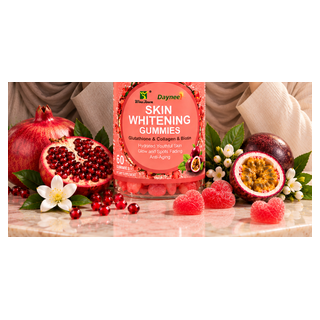
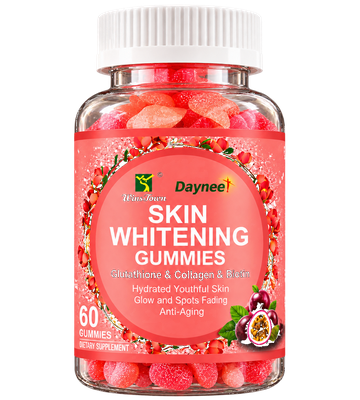
feat(skin): upsell cards use new packshot from ChatGPT 02_38_52 PM
- Process user asset into pdp/upsell/skin.png (white bg)
- Re-enable upsell thumbnails; skin upsellSrc cache bump

diff --git a/src/components/product/ProductPurchasePanel.tsx b/src/components/product/ProductPurchasePanel.tsx
@@ -63,37 +63,40 @@ function getOfferUi(form: ProductForm, qty: BundleQuantity): OfferUi {
 }
 
 function OfferProductStack({
-  src: _upsellImageSrc,
-  alt: _upsellImageAlt,
+  src,
+  alt,
   count,
 }: {
-  /** Wire URL here when upsell assets are ready */
   src: string;
   alt: string;
   count: number;
 }) {
-  void _upsellImageSrc;
-  void _upsellImageAlt;
-
   const width = count === 1 ? "3.5rem" : count === 2 ? "4.75rem" : "5.75rem";
 
   return (
     <div
       className="relative h-[4.25rem] shrink-0 sm:h-[4.75rem]"
       style={{ width }}
-      aria-hidden
     >
       {Array.from({ length: count }, (_, i) => (
         <div
           key={i}
-          className="absolute bottom-0"
+          className="absolute bottom-0 flex items-end justify-center rounded-xl bg-white p-0.5 shadow-sm ring-1 ring-velora-burgundy/10"
           style={{
             right: i * 16,
             zIndex: count - i,
             width: "3.25rem",
             height: "3.75rem",
           }}
-        />
+        >
+          {/* eslint-disable-next-line @next/next/no-img-element */}
+          <img
+            src={src}
+            alt={i === 0 ? alt : ""}
+            aria-hidden={i > 0}
+            className="max-h-full max-w-full object-contain"
+          />
+        </div>
       ))}
     </div>
   );

diff --git a/src/config/images.ts b/src/config/images.ts
@@ -34,7 +34,8 @@ export const images = {
     skin: {
       src: "/images/products/pdp/skin-main.png?v=20260923-0110",
       storySrc: "/images/products/pdp/skin-story.png?v=20260923-0126",
-      upsellSrc: "/images/products/pdp/upsell/skin.png?v=20260923-0131",
+      upsellSrc:
+        "/images/products/pdp/upsell/skin.png?v=20260923-1438",
       placeholder: "[صورة صفحة المنتج — علكات البشرة]",
     },
     eye: {
